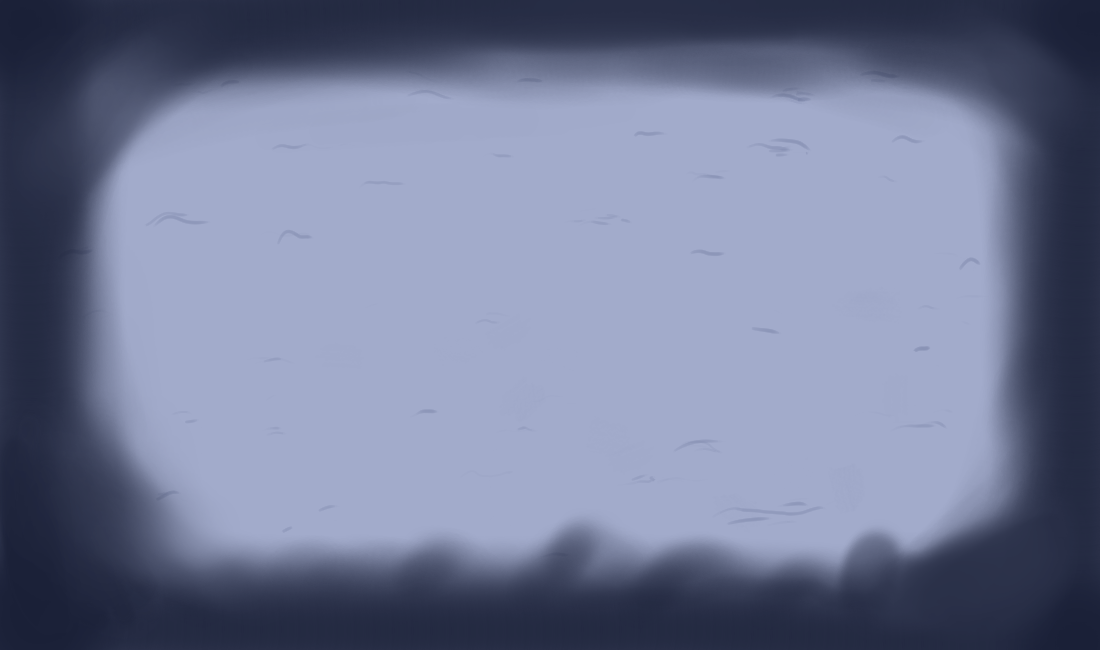
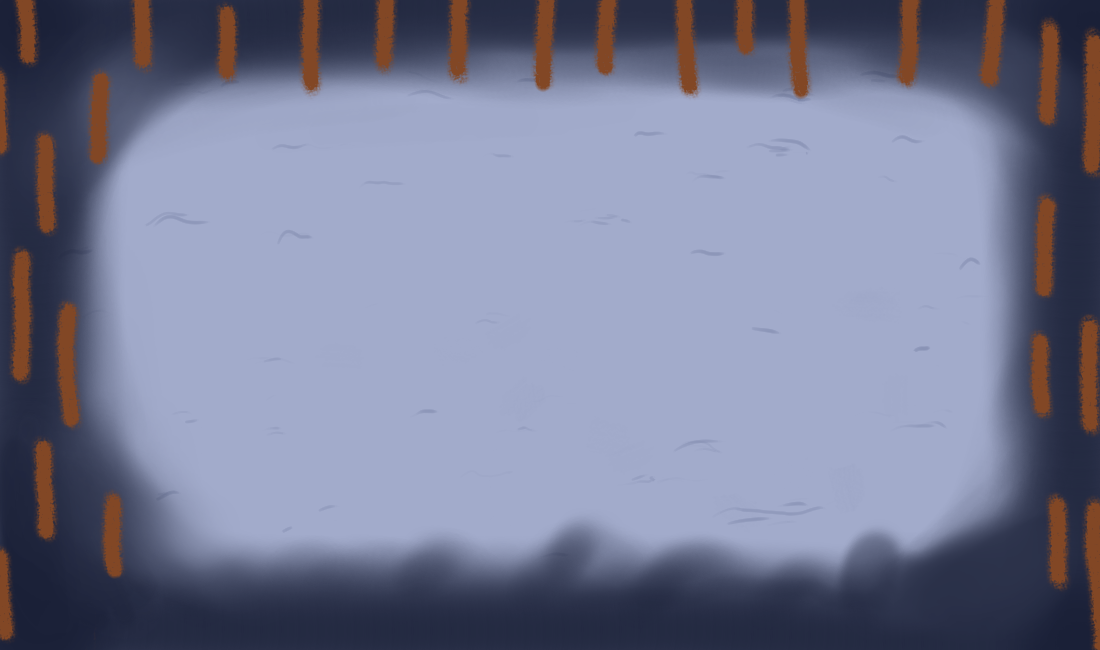
rocks

diff --git a/Main.py b/Main.py
@@ -21,6 +21,7 @@ trees = pygame.image.load('assets/Background-trees.png')
 freezing = pygame.image.load('assets/Freezing.png').convert()
 campfires = [pygame.image.load('assets/Campfire-' + str(i) + ".png") for i in range(1, 4)]
 outersloth = pygame.image.load('assets/Outersloth-white.png')
+rocks = [pygame.image.load("assets/rock-1.png"), pygame.image.load("assets/rock-2.png")]
 
 # right
 character_right = [pygame.image.load('assets/Character-right-' + str(i) + ".png") for i in range(1, 3)]
@@ -73,15 +74,10 @@ def update(player, fireballs, snowballs, campfire, snowmen, boulders, keys, mous
 
     win.blit(trees, (0, 0))
 
-    for boulder in boulders:
-        boulder.draw(win, player)
+    boulders[0].draw(win, player, rocks[0])
+    boulders[1].draw(win, player, rocks[1])
 
     player.draw(win, keys, mousepos, character_right, character_left, character_front, character_back, character_shoot)
-
-    pygame.draw.circle(win, (0, 0, 255), (player.x, player.y), 5)
-    pygame.draw.circle(win, (0, 0, 255), (player.x + player.WIDTH, player.y), 5)
-    pygame.draw.circle(win, (0, 0, 255), (player.x, player.y + player.HEIGHT), 5)
-    pygame.draw.circle(win, (0, 0, 255), (player.x + player.WIDTH, player.y + player.HEIGHT), 5)
 
     win.blit(score_text, (WIDTH // 2 - score_text.get_width() // 2, HEIGHT - 125))
 
@@ -100,7 +96,7 @@ def main():
     player = Player.Player(WIDTH // 2, 200, 4)
     campfire = Campfire.Campfire(WIDTH // 2, HEIGHT // 2, 100)
 
-    boulders = [Boulder.Boulder(300, 300, 70, 120)]
+    boulders = [Boulder.Boulder(300, 300, 105, 70), Boulder.Boulder(700, 250, 105, 70)]
     snowmen = []
     fireballs = []
     snowballs = []

diff --git a/Boulder.py b/Boulder.py
@@ -92,12 +92,10 @@ class Boulder:
             "BOTTOM RIGHT": (self.corners[1], self.corners[2])
         }
 
-    def draw(self, win, player):
+    def draw(self, win, player, image):
         self.shadow(win, player)
         self.draw_shadow(win)
-        pygame.draw.rect(win, (255,0,0), (self.x, self.y, self.width, self.height))
-
-        # print(win.copy())
+        win.blit(image, (self.x - 10, self.y - 45))
 
     def draw_shadow(self, win):
         pointslist = [self.pointslist[0], self.pointslist[1], self.pointslist[3], self.pointslist[2]]
@@ -111,9 +109,12 @@ class Boulder:
 
             masked_image = cv2.bitwise_or(background, mask)
             cv2.imwrite('assets/new_masked_image.png', masked_image)
-            surf = pygame.image.load('assets/new_masked_image.png')
-            surf.set_colorkey((255, 255, 255))
-            win.blit(surf, (0, 0))
+            try:
+                surf = pygame.image.load('assets/new_masked_image.png')
+                surf.set_colorkey((255, 255, 255))
+                win.blit(surf, (0, 0))
+            except:
+                pass
         else:
             pygame.draw.polygon(win, (0,0,0), self.pointslist)
 
@@ -131,7 +132,6 @@ class Boulder:
         if math.degrees(self.angles[1]) == -90.0 and math.degrees(self.angles[0]) > 0 and self.side in ["RIGHT", "TOP RIGHT", "BOTTOM RIGHT"]:
             self.angles[1] = math.radians(90.0)
 
-        print([math.degrees(x) for x in self.angles])
 
         # pygame.draw.polygon(win, (22, 22, 22), make_shadow(win, self.useful_points, self.angles, self.side))
         shadow = make_shadow(win, self.useful_points, self.angles, self.side)

diff --git a/Player.py b/Player.py
@@ -139,9 +139,9 @@ class Player:
         move_x = True
         move_y = True
         if not Helper.get_distance(self.x, y, campfire.x, campfire.y) >= campfire.FIRE_DISTANCE:
-            move_x = False
-        if not Helper.get_distance(x, self.y, campfire.x, campfire.y) >= campfire.FIRE_DISTANCE:
             move_y = False
+        if not Helper.get_distance(x, self.y, campfire.x, campfire.y) >= campfire.FIRE_DISTANCE:
+            move_x = False
 
         for boulder in boulders:
             if pygame.Rect((boulder.x - 4, boulder.y - 4, boulder.width + 12, boulder.height + 12)).colliderect((x, y, self.WIDTH, self.HEIGHT)):
